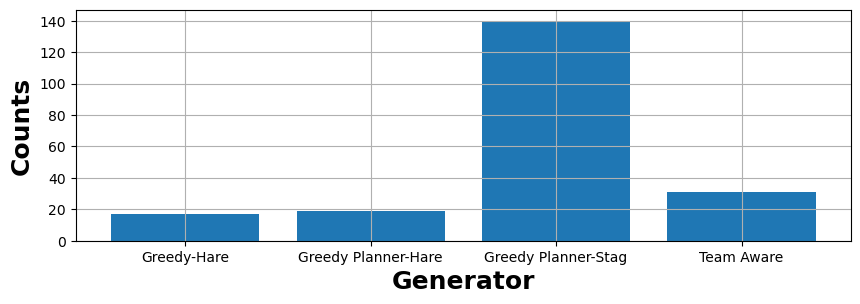
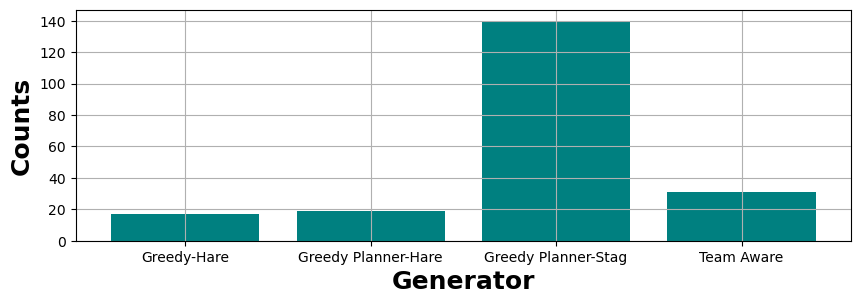
Update plot colors

Changed region(s): [[0.3326, 0.0592, 0.9674, 0.7993], [0.1209, 0.6809, 0.3023, 0.7993]]

diff --git a/simulations/generator_usages.py b/simulations/generator_usages.py
@@ -72,7 +72,7 @@ for agent_name in agent_names:
     generator_usage = df[[f'generator_{i}' for i in range(N_GENERATORS)]].sum()
     plt.figure(figsize=(10, 3))
     plt.grid()
-    plt.bar(generator_usage.index, generator_usage.values)
+    plt.bar(generator_usage.index, generator_usage.values, color='teal')
     plt.xticks(ticks=range(N_GENERATORS), labels=['Greedy-Hare', 'Greedy Planner-Hare', 'Greedy Planner-Stag',
                                                   'Team Aware'])
     plt.xlabel('Generator', fontsize=18, fontweight='bold')
